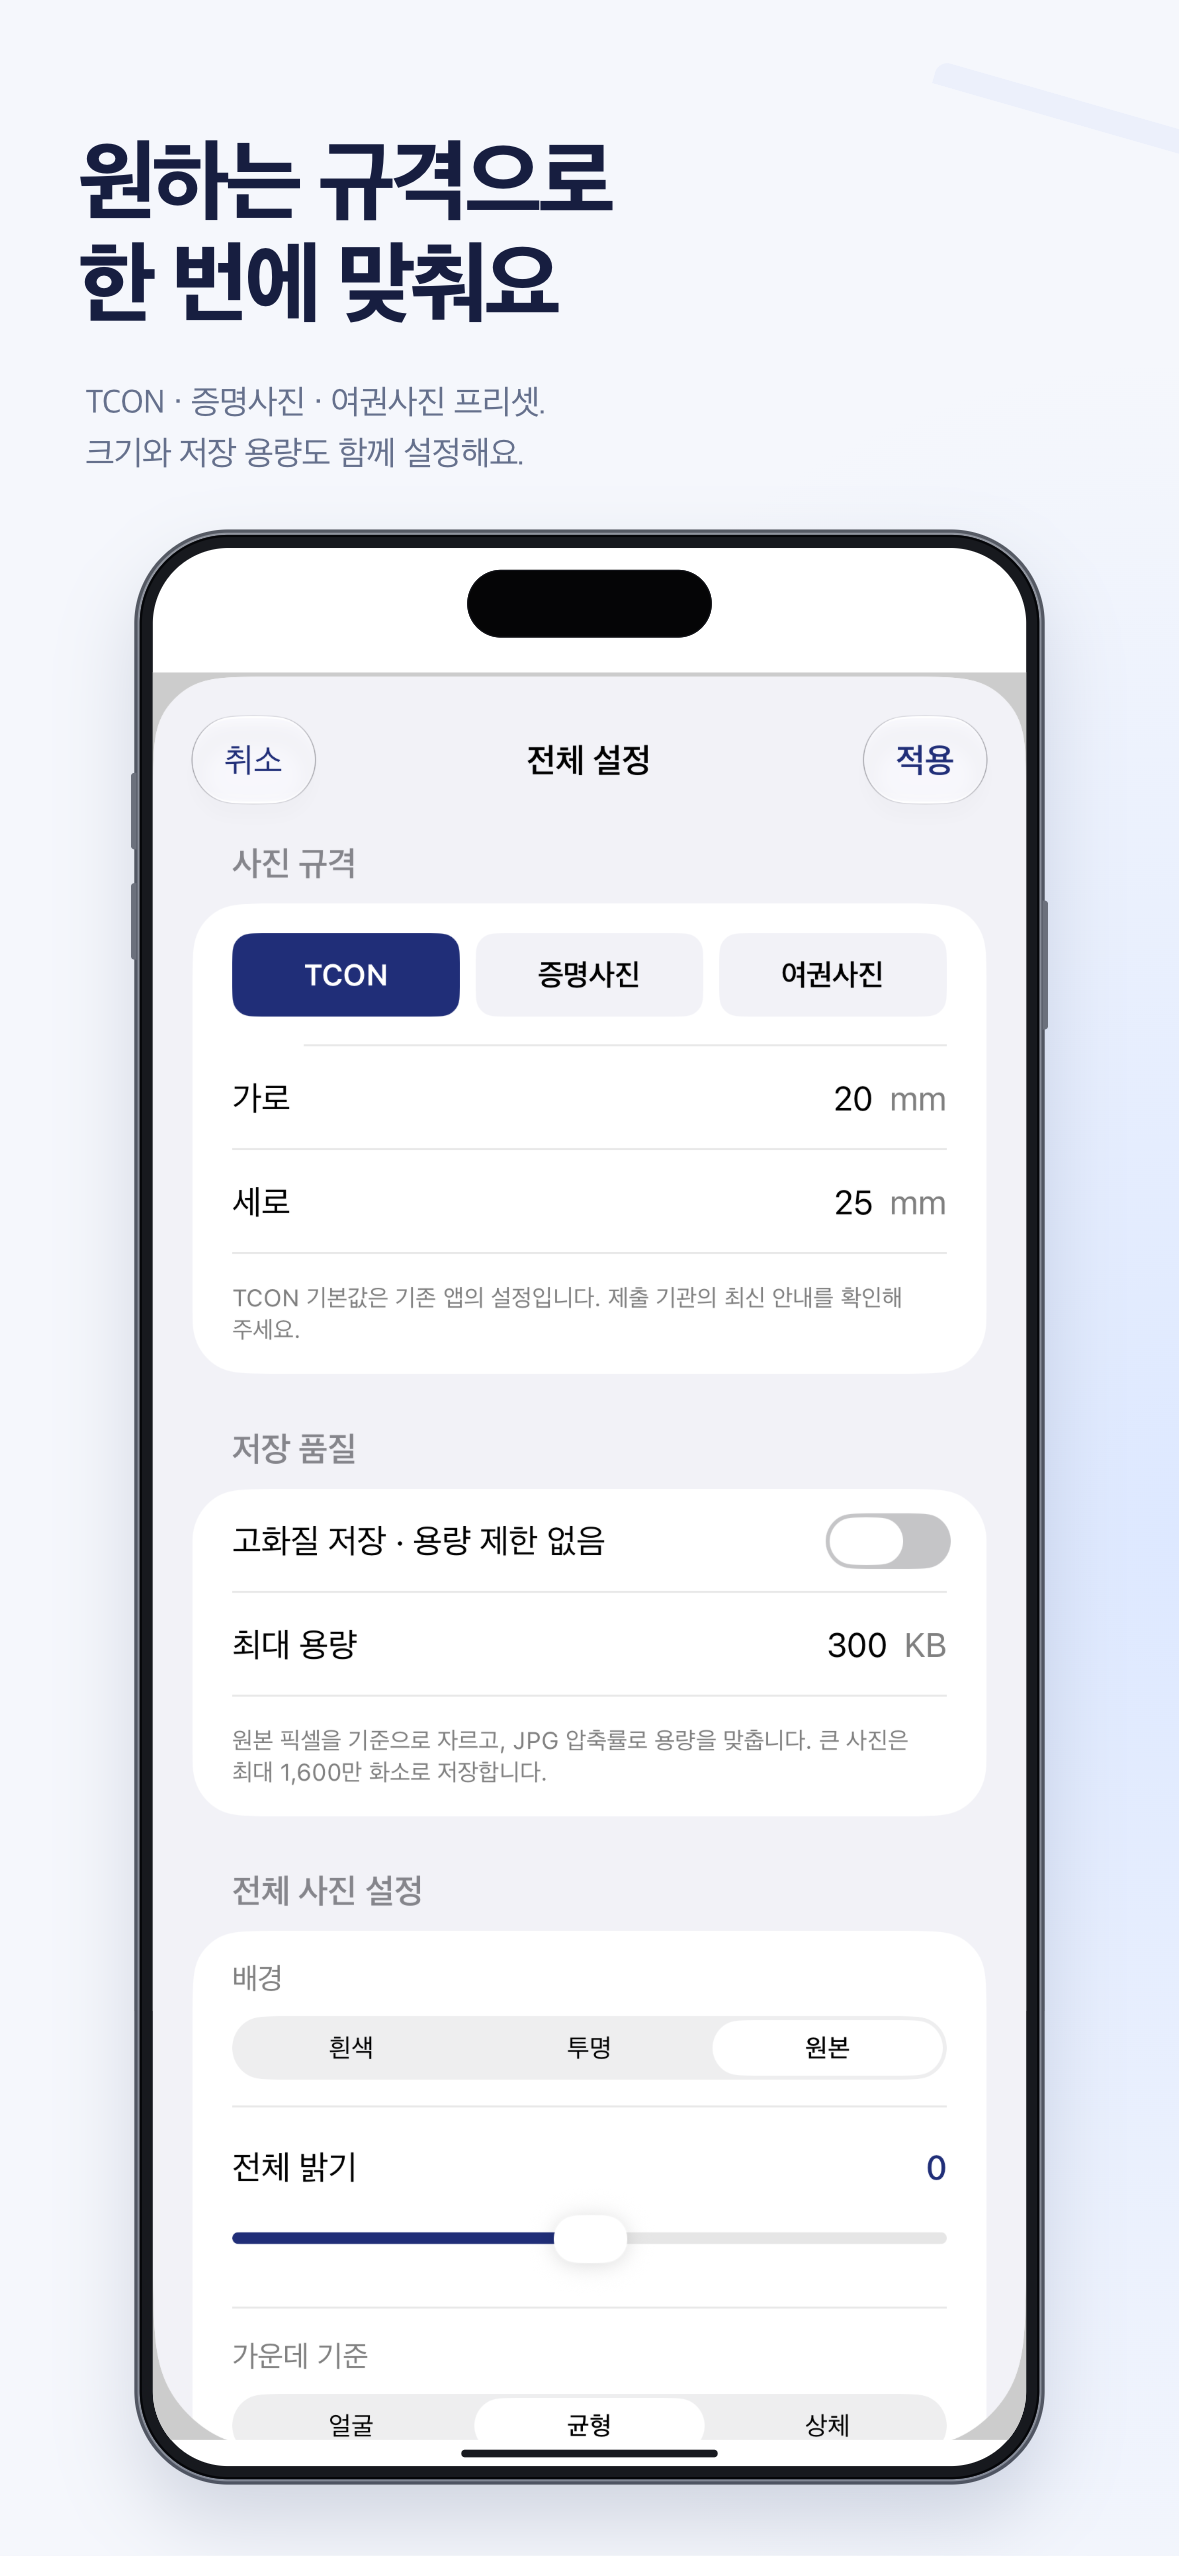
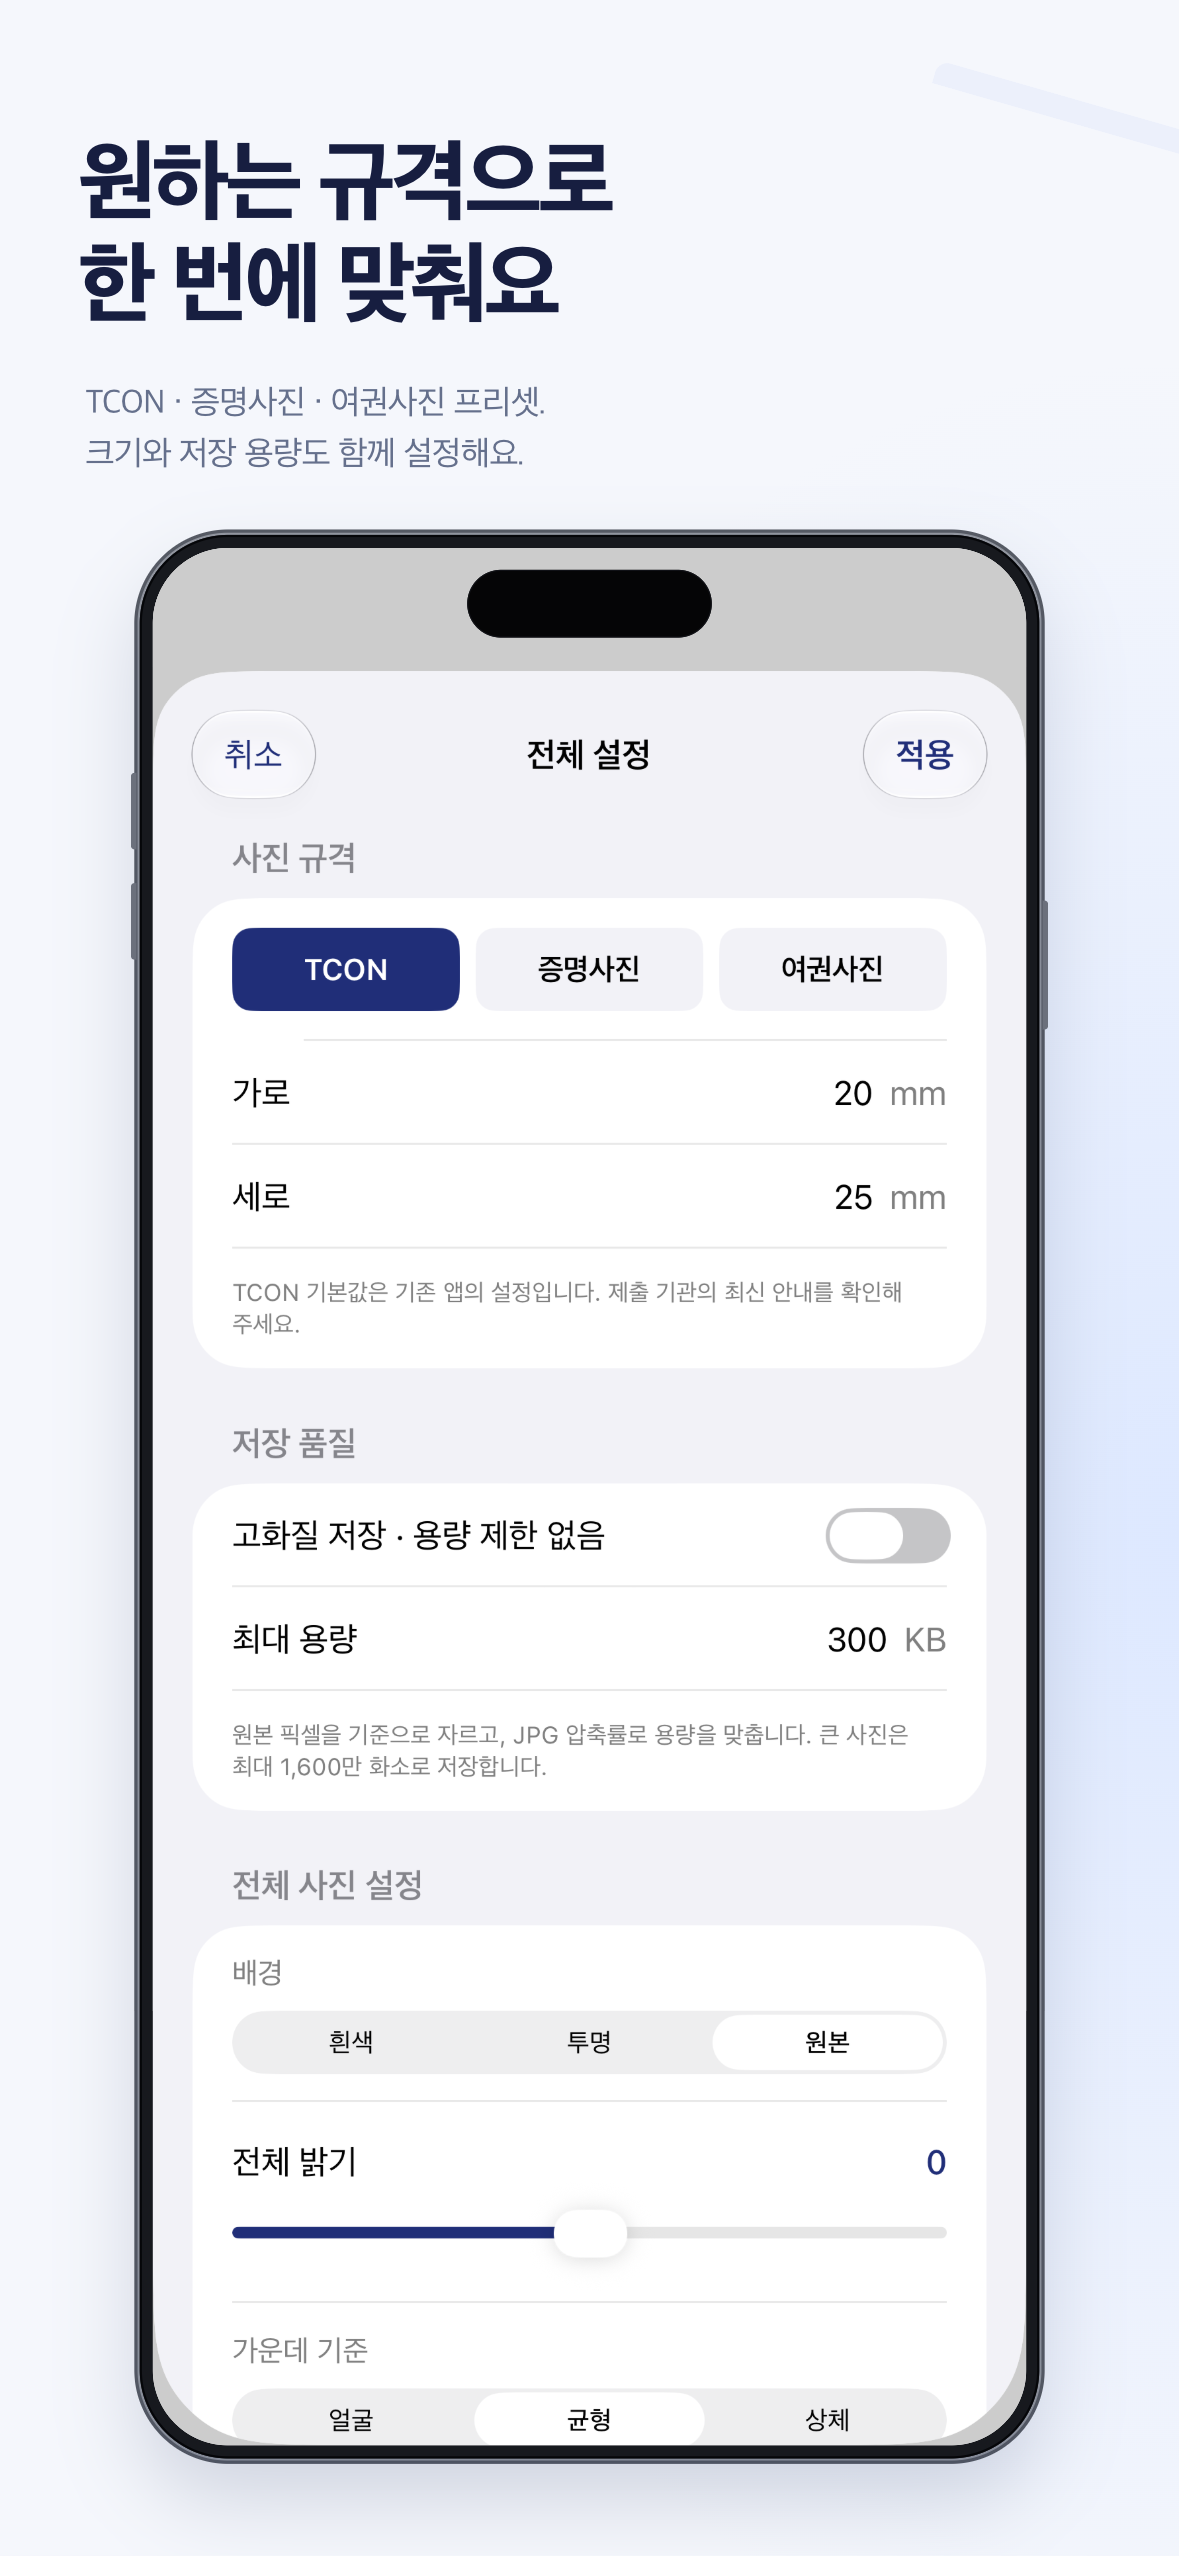
[fix] 아이폰 목업에 캡처 화면 채움

diff --git a/Design/AppStore/Source/promotion.html b/Design/AppStore/Source/promotion.html
@@ -16,10 +16,11 @@ h1{position:absolute;top:124px;left:72px;margin:0;font-size:82px;line-height:1.1
 .frame{position:absolute;padding:12px;border-radius:81px;background:#17191e;box-shadow:0 36px 75px #1426532d,0 0 0 2px #9498a1,0 0 0 5px #575b64,inset 0 0 0 2px #050609}
 .dark .frame{box-shadow:0 40px 90px #070c3048,0 0 0 2px #7b8295,0 0 0 5px #454d62,inset 0 0 0 2px #050609}
 .screen{position:relative;overflow:hidden;border-radius:69px;background:#fff}
-.capture-viewport{position:absolute;left:0;overflow:hidden;width:100%}
+.capture-viewport{position:absolute;inset:0;overflow:hidden;width:100%;height:100%}
+.status-cover{position:absolute;top:0;left:0;right:0;z-index:2;pointer-events:none}
 .screen img{position:absolute;display:block;max-width:none}
 .screen:before{content:'';position:absolute;z-index:3;top:20px;left:50%;transform:translateX(-50%);width:224px;height:62px;border-radius:40px;background:#050506;box-shadow:inset 0 0 0 1px #111217}
-.screen:after{content:'';position:absolute;z-index:3;bottom:8px;left:50%;transform:translateX(-50%);width:235px;height:7px;border-radius:8px;background:#181a20}
+.screen:after{display:none}
 .side-key{position:absolute;right:-8px;top:335px;width:5px;height:118px;background:#6b707c;border-radius:0 3px 3px 0}
 .side-key.left{left:-8px;right:auto;top:218px;height:70px;border-radius:3px 0 0 3px;box-shadow:0 101px #6b707c}
 .ipad h1{left:85px;top:114px;font-size:88px;line-height:1.12}.ipad .description{left:92px;top:344px;font-size:30px;line-height:1.45}
@@ -44,7 +45,7 @@ h1{position:absolute;top:124px;left:72px;margin:0;font-size:82px;line-height:1.1
 <main class="artboard" id="artboard">
  <div class="wash"></div><div class="crop-mark"></div>
  <h1></h1><p class="description"></p>
- <div class="frame"><i class="side-key"></i><i class="side-key left"></i><div class="screen"><div class="capture-viewport"><img id="capture" alt="실제 앱 화면"></div></div></div>
+ <div class="frame"><i class="side-key"></i><i class="side-key left"></i><div class="screen"><div class="status-cover"></div><div class="capture-viewport"><img id="capture" alt="실제 앱 화면"></div></div></div>
 </main>
 <script>
 const slides = [
@@ -77,18 +78,22 @@ if(slide.cover){
 }else{
 document.querySelector('h1').textContent=slide.title;document.querySelector('.description').textContent=slide.description;
 const sourceDevice=device.ipad?'iPad-13-2064x2752':'iPhone-Large-1320x2868';
-// Clip the OS status strip, not the app UI. Preserve the entire visible app beneath it.
+// Fill iPhone displays with the full native capture at its original aspect ratio.
+// Hide only status indicators using the sampled background of that screen.
 const sourceWidth=device.ipad?2064:1320;
-const crop=device.ipad?{x:0,y:58,width:2064,height:2666}:{x:0,y:180,width:1320,height:2672};
+const crop=device.ipad?{x:0,y:58,width:2064,height:2666}:{x:0,y:0,width:1320,height:2868};
 const screenWidth=device.ipad?1060:800,scale=screenWidth/crop.width,screenHeight=crop.height*scale;
 const padding=device.ipad?24:12,frameWidth=screenWidth+padding*2;
 const frame=document.querySelector('.frame'),screen=document.querySelector('.screen'),capture=document.querySelector('#capture');
 Object.assign(frame.style,{left:(baseWidth-frameWidth)/2+'px',top:490+'px'});
-const safeTop=device.ipad?0:114,safeBottom=device.ipad?0:24;
-Object.assign(screen.style,{width:screenWidth+'px',height:(screenHeight+safeTop+safeBottom)+'px'});
-Object.assign(document.querySelector('.capture-viewport').style,{top:safeTop+'px',height:screenHeight+'px'});
+Object.assign(screen.style,{width:screenWidth+'px',height:screenHeight+'px'});
+const statusCover=document.querySelector('.status-cover');
+const statusBackground=slide.source==='07-settings.png'?'#cccccc':(['01-home.png','03-editor.png'].includes(slide.source)?'#ffffff':'#f2f2f7');
+const statusMask=device.ipad?null:{x:0,y:0,width:1320,height:180,background:statusBackground};
+if(statusMask){Object.assign(statusCover.style,{height:(statusMask.height*scale)+'px',background:statusBackground});}
+else{statusCover.remove();}
 capture.src=`../Captures/ko-KR/${sourceDevice}/${slide.source}`;
 Object.assign(capture.style,{left:-crop.x*scale+'px',top:-crop.y*scale+'px',width:sourceWidth*scale+'px'});
-window.renderSpec={device:key,width:device.width,height:device.height,slide,source:`Captures/ko-KR/${sourceDevice}/${slide.source}`,crop,baseWidth,baseHeight,slideCount:slides.length};
+window.renderSpec={device:key,width:device.width,height:device.height,slide,source:`Captures/ko-KR/${sourceDevice}/${slide.source}`,crop,statusMask,baseWidth,baseHeight,slideCount:slides.length};
 }
 </script></html>

diff --git a/Design/AppStore/README.md b/Design/AppStore/README.md
@@ -20,16 +20,16 @@
 6. 여러 장 선택 — 필요한 사진만 골라서 한 번에
 7. 사진 저장 — 사진·파일·ZIP으로 편하게 저장해요
 
-모든 PNG는 RGB·불투명이다. iPhone에는 얇고 균일한 베젤·측면 버튼·둥근 화면과 화면 내부 다이내믹 아일랜드를 적용한 목업을, iPad에는 해당 캡처 비율의 태블릿 목업을 사용했다. 아이폰의 상단 안전 영역과 하단 홈 표시 영역을 캡처 바깥에 구성하여 다이내믹 아일랜드가 앱 컨트롤을 가리지 않는다. 시간·배터리 아이콘은 추가하지 않는다. 표지 로고의 색상·투명도 조정은 HTML/CSS 표시 효과이며 원본 로고 파일은 변경하지 않는다. 실제 앱 UI에 이미 포함된 로고는 캡처 그대로 유지한다. 홍보 문구는 앱 화면 바깥에 배치했다. UI 글자·버튼·사진 보정 결과를 다시 그리거나 교체하지 않았고, 가상의 성인 예시 사진만 사용했다. 화면 안의 사진은 해당 캡처에서 선택한 원본 배경 모드이다.
+모든 PNG는 RGB·불투명이다. iPhone에는 얇고 균일한 베젤·측면 버튼·둥근 화면과 화면 내부 다이내믹 아일랜드를 적용한 목업을, iPad에는 해당 캡처 비율의 태블릿 목업을 사용했다. 아이폰은 원본 전체 캡처의 종횡비로 디스플레이를 구성하고 별도 상·하단 여백 없이 가장자리까지 채운다. 다이내믹 아일랜드는 원본 상태 표시줄 영역 안에 배치하여 앱 컨트롤을 가리지 않는다. 시간·배터리 아이콘은 추가하지 않는다. 표지 로고의 색상·투명도 조정은 HTML/CSS 표시 효과이며 원본 로고 파일은 변경하지 않는다. 실제 앱 UI에 이미 포함된 로고는 캡처 그대로 유지한다. 홍보 문구는 앱 화면 바깥에 배치했다. UI 글자·버튼·사진 보정 결과를 다시 그리거나 교체하지 않았고, 가상의 성인 예시 사진만 사용했다. 화면 안의 사진은 해당 캡처에서 선택한 원본 배경 모드이다.
 
-iPhone 캡처의 상단 180px, iPad 캡처의 상단 58px를 CSS 표시 영역에서 제외하여 시간·배터리·상태 아이콘을 숨겼다. 하단 여백은 각각 16px, 28px를 제외했다. 앱 화면은 비율을 유지해 축소했으며 원본 캡처 파일은 수정하지 않았다. 상태 표시줄 제외는 이번 디자인 요청에 따른 것이며 Apple의 필수 규칙이라는 의미는 아니다.
+iPhone은 전체 캡처(1320×2868)를 비율 그대로 표시하고 상단 180px의 시간·배터리 영역만 해당 화면에서 확인한 배경색으로 가린다. 별도 흰 띠나 홈 표시 영역을 덧붙이지 않는다. 설정 화면의 실제 모달 배경과 둥근 모서리는 원본 UI 그대로이다. iPad는 기존처럼 상단 58px와 하단 28px를 표시 영역에서 제외한다. 앱 화면은 비율을 유지해 축소했으며 원본 캡처 파일은 수정하지 않았다. 상태 표시줄 제외는 이번 디자인 요청에 따른 것이며 Apple의 필수 규칙이라는 의미는 아니다.
 
 ## 원본과 재생성
 
 - `Captures/`: 기존 촬영본 24장, 당시 안내와 원본 해시. 업로드용 최종 이미지가 아니다.
 - `Source/promotion.html`: 편집 가능한 HTML/CSS 디자인 및 한국어 문구. `?device=iPad-13-2064x2752&slide=2`처럼 기기와 0부터 시작하는 장 번호를 지정할 수 있다.
 - `Overview/`: 기기별 7장 모아보기. 업로드용이 아니다.
-- `manifest.json`: 최종 출력 크기·투명도·해시·사용 캡처·자른 범위를 기록한다.
+- `manifest.json`: 최종 출력 크기·투명도·해시·사용 캡처·자른 범위·상태 표시줄 처리 범위를 기록한다.
 - `Scripts/render_appstore.mjs`: 저장소 루트에 있는 이미지 생성기.
 
 macOS의 Apple SD Gothic Neo 글꼴과 Node.js, Playwright, Sharp가 필요하다. 브라우저는 Playwright Chromium 또는 설치된 Chrome을 사용할 수 있다. 저장소 루트에서 실행한다.
@@ -40,6 +40,6 @@ TCON_RENDER_BROWSER='/Applications/Google Chrome.app/Contents/MacOS/Google Chrom
   node Scripts/render_appstore.mjs
 ```
 
-패키지가 별도 경로에 설치되어 있으면 `TCON_RENDER_MODULES`에 해당 `node_modules` 경로를 지정한다. 생성기는 이미지 로딩·표지와 기능 화면의 요소 겹침·캔버스 이탈·21개 파일의 크기와 RGB 불투명 여부를 검사하며, 갤러리와 모아보기까지 재생성한다.
+패키지가 별도 경로에 설치되어 있으면 `TCON_RENDER_MODULES`에 해당 `node_modules` 경로를 지정한다. 생성기는 이미지 로딩·표지와 기능 화면의 요소 겹침·캔버스 이탈·21개 파일의 크기와 RGB 불투명 여부를 검사한다. 아이폰 캡처와 디스플레이 영역 일치, 아일랜드와 앱 콘텐츠의 비중첩, 승인된 표지의 해시 보존도 확인하며, 갤러리와 모아보기까지 재생성한다.
 
 이번 변경은 앱 구현을 수정하지 않는다. 사용자 요청에 따라 이전 앱 테스트를 반복하지 않고 최종 이미지 21장의 크기·투명도·배치 및 원본 캡처 24장의 해시 보존을 확인했다. App Store Connect 업로드·심사 제출은 수행하지 않았다.
